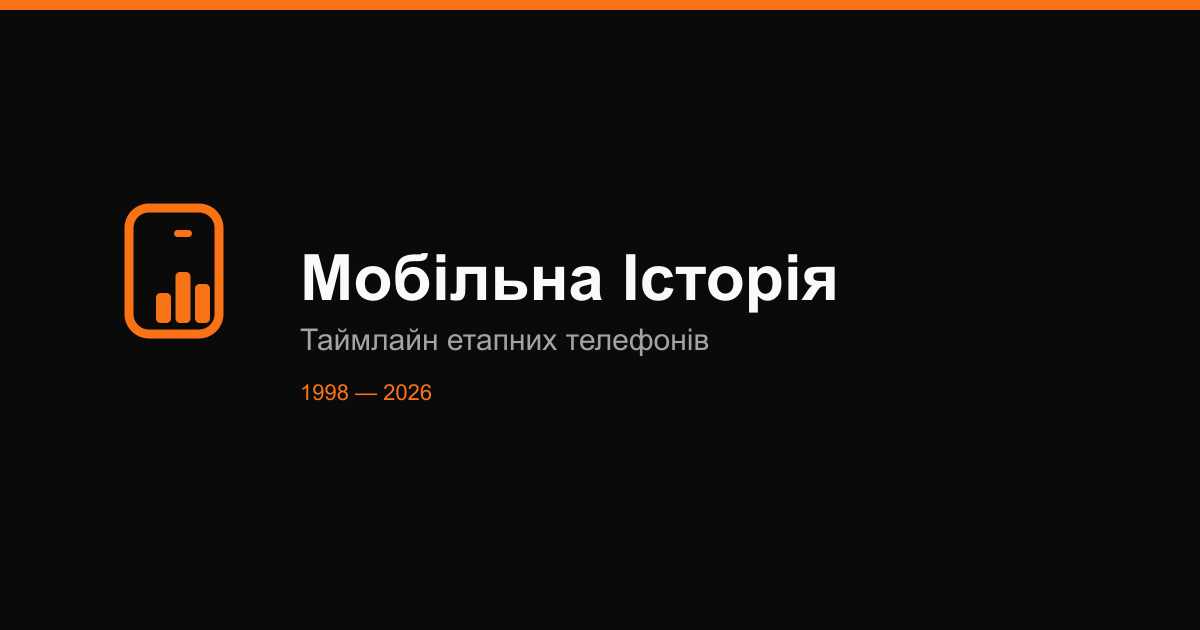
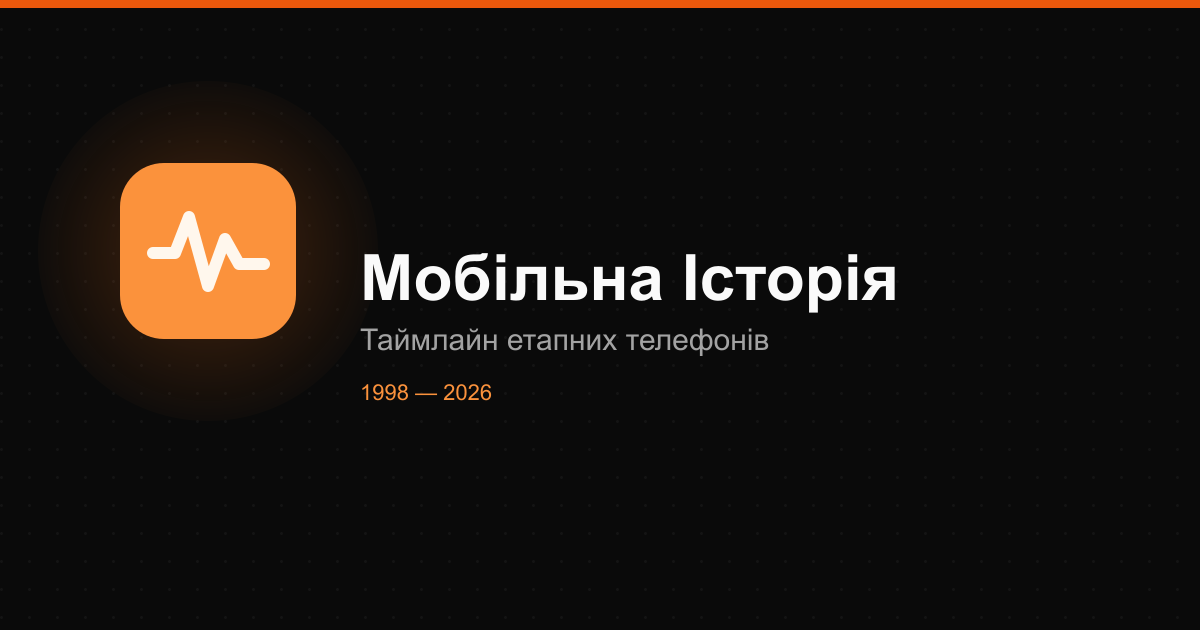
Enhance branding with updated SVG assets and implement light/dark theme toggle

Changed region(s): [[0.0617, 0.2111, 0.7708, 0.573], [0.0, 0.0, 1.0, 0.0302], [0.2467, 0.6032, 0.4317, 0.6333]]

diff --git a/src/styles/global.css b/src/styles/global.css
@@ -11,6 +11,47 @@
   }
 }
 
+/* Light/dark theme toggle. The whole site is built on plain `neutral-*`/`orange-*` Tailwind
+   utilities (bg-neutral-950, text-neutral-400, …) — Tailwind v4 generates those utilities as
+   `var(--color-neutral-950)` etc., so instead of hand-writing a `dark:` variant on every class in
+   every component, we just redefine those CSS variables under a light condition. Dark is the
+   site's native/default look (every unprefixed utility already resolves to it); light is a
+   straight inversion of the neutral scale (950↔50, 900↔100, …), plus a slightly deeper orange so
+   accent text keeps enough contrast on a white background. Explicit `data-theme` always wins over
+   system preference, in both directions (set by ThemeToggle.astro + the inline script in
+   Layout.astro that applies a stored choice before first paint). */
+@media (prefers-color-scheme: light) {
+  :root:not([data-theme="dark"]) {
+    --color-neutral-50: #0a0a0a;
+    --color-neutral-100: #171717;
+    --color-neutral-200: #262626;
+    --color-neutral-300: #404040;
+    --color-neutral-400: #525252;
+    --color-neutral-600: #a3a3a3;
+    --color-neutral-700: #d4d4d4;
+    --color-neutral-800: #e5e5e5;
+    --color-neutral-900: #f5f5f5;
+    --color-neutral-950: #fafafa;
+    --color-orange-400: #f97316;
+    --color-orange-500: #ea580c;
+  }
+}
+
+:root[data-theme="light"] {
+  --color-neutral-50: #0a0a0a;
+  --color-neutral-100: #171717;
+  --color-neutral-200: #262626;
+  --color-neutral-300: #404040;
+  --color-neutral-400: #525252;
+  --color-neutral-600: #a3a3a3;
+  --color-neutral-700: #d4d4d4;
+  --color-neutral-800: #e5e5e5;
+  --color-neutral-900: #f5f5f5;
+  --color-neutral-950: #fafafa;
+  --color-orange-400: #f97316;
+  --color-orange-500: #ea580c;
+}
+
 @media (prefers-reduced-motion: no-preference) {
   html {
     scroll-behavior: smooth;
